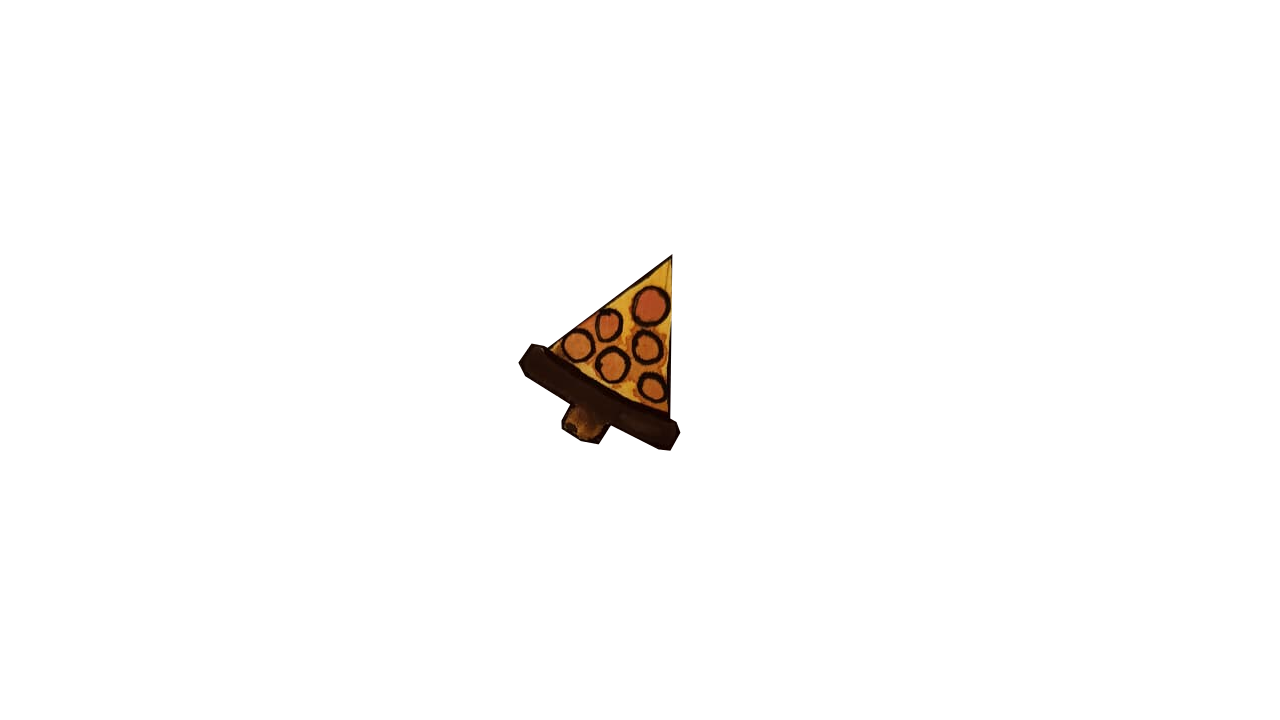
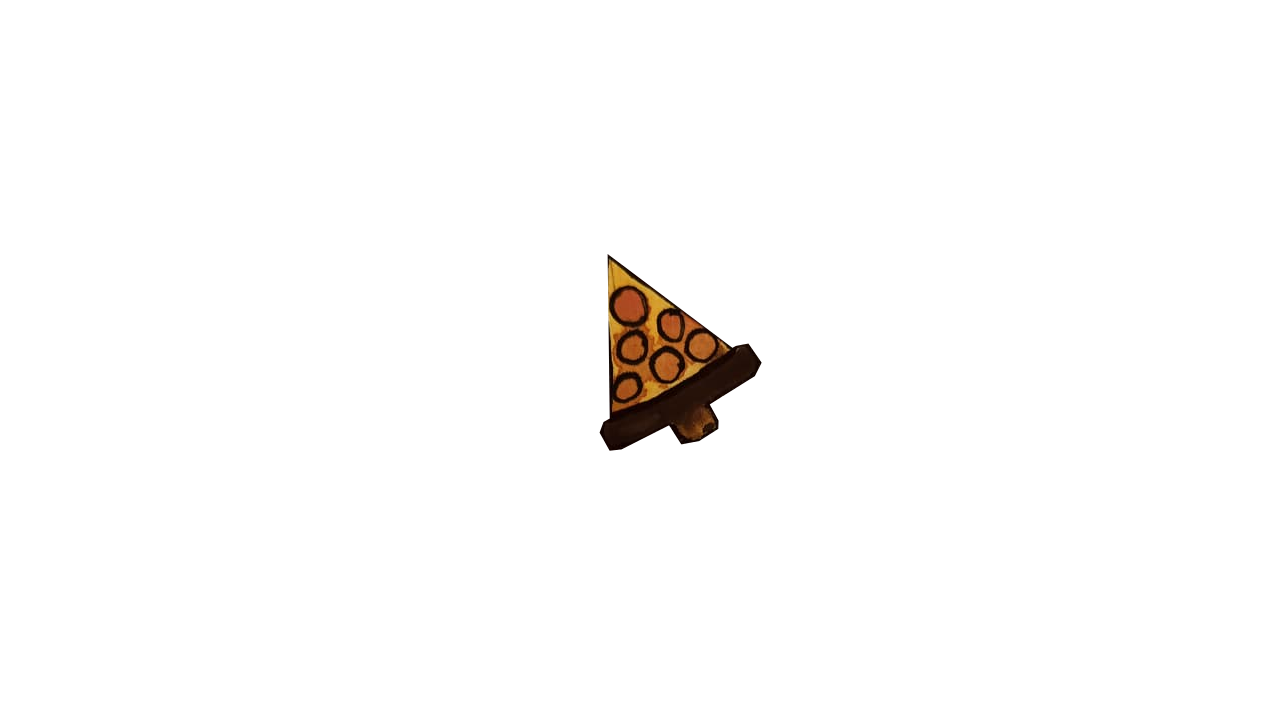
Mirror cursor horizontally and fix discPf background z-index visibility

Changed region(s): [[0.4062, 0.3667, 0.5938, 0.6417]]

diff --git a/src/app/globals.css b/src/app/globals.css
@@ -92,13 +92,15 @@ a {
   background-repeat: no-repeat;
   background-position: center;
   background-size: cover;
-  opacity: 0.25;
-  filter: brightness(0.5) contrast(0.9);
-  z-index: -1;
+  opacity: 0.35;
+  filter: brightness(0.65) contrast(1.1);
+  z-index: 0;
   pointer-events: none;
 }
 
 .shell {
+  position: relative;
+  z-index: 1;
   max-width: var(--measure);
   margin: 0 auto;
   padding: 1.5rem 1.25rem 4rem;
